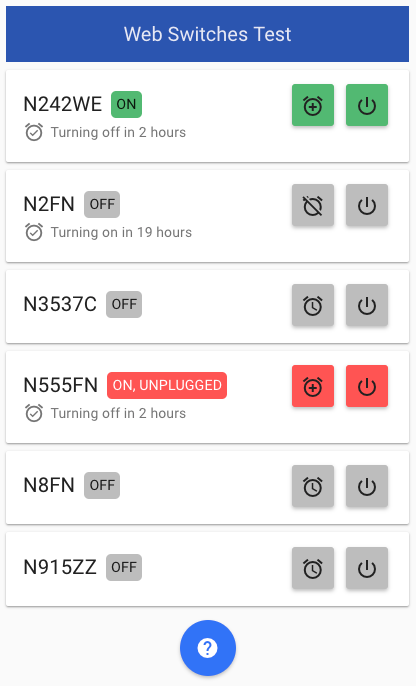
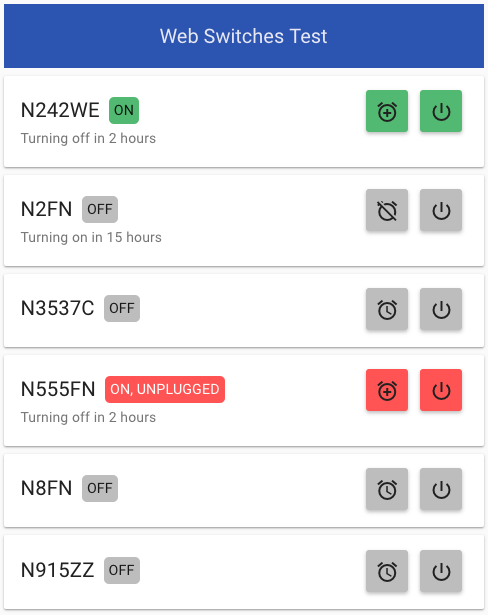
#60 Tweaked screenshot

Changed region(s): [[0.0, 0.0, 1.0, 1.0]]

diff --git a/src/ui/static/index.html b/src/ui/static/index.html
@@ -35,7 +35,7 @@
               <span class="indicator" md-colors="getMdColors()">{{getStateDescription()}}</span>
             </div>
             <div class="md-subhead" ng-if="switch.timer != null">
-              <md-icon class="material-icons">alarm_on</md-icon> Turning {{switch.timer.turn}} {{getTimerDescription()}}
+              Turning {{switch.timer.turn}} {{getTimerDescription()}}
             </div>
           </md-card-title-text>
           <md-card-title-media>
